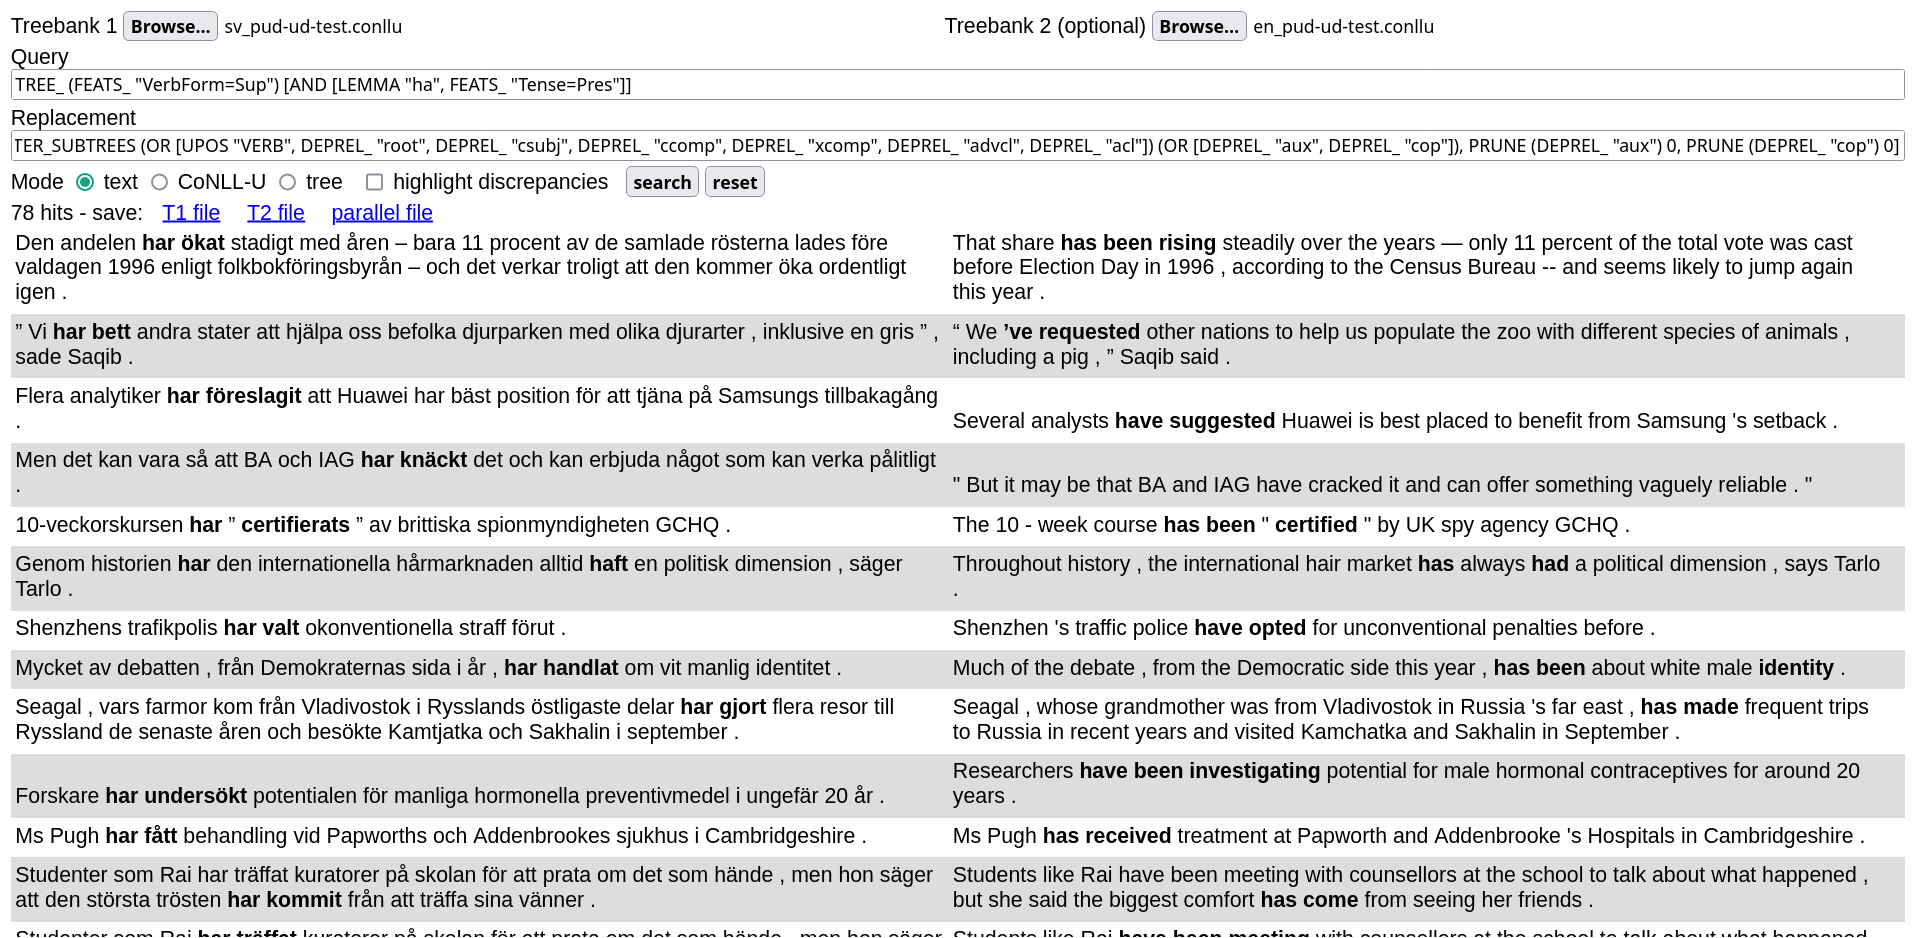
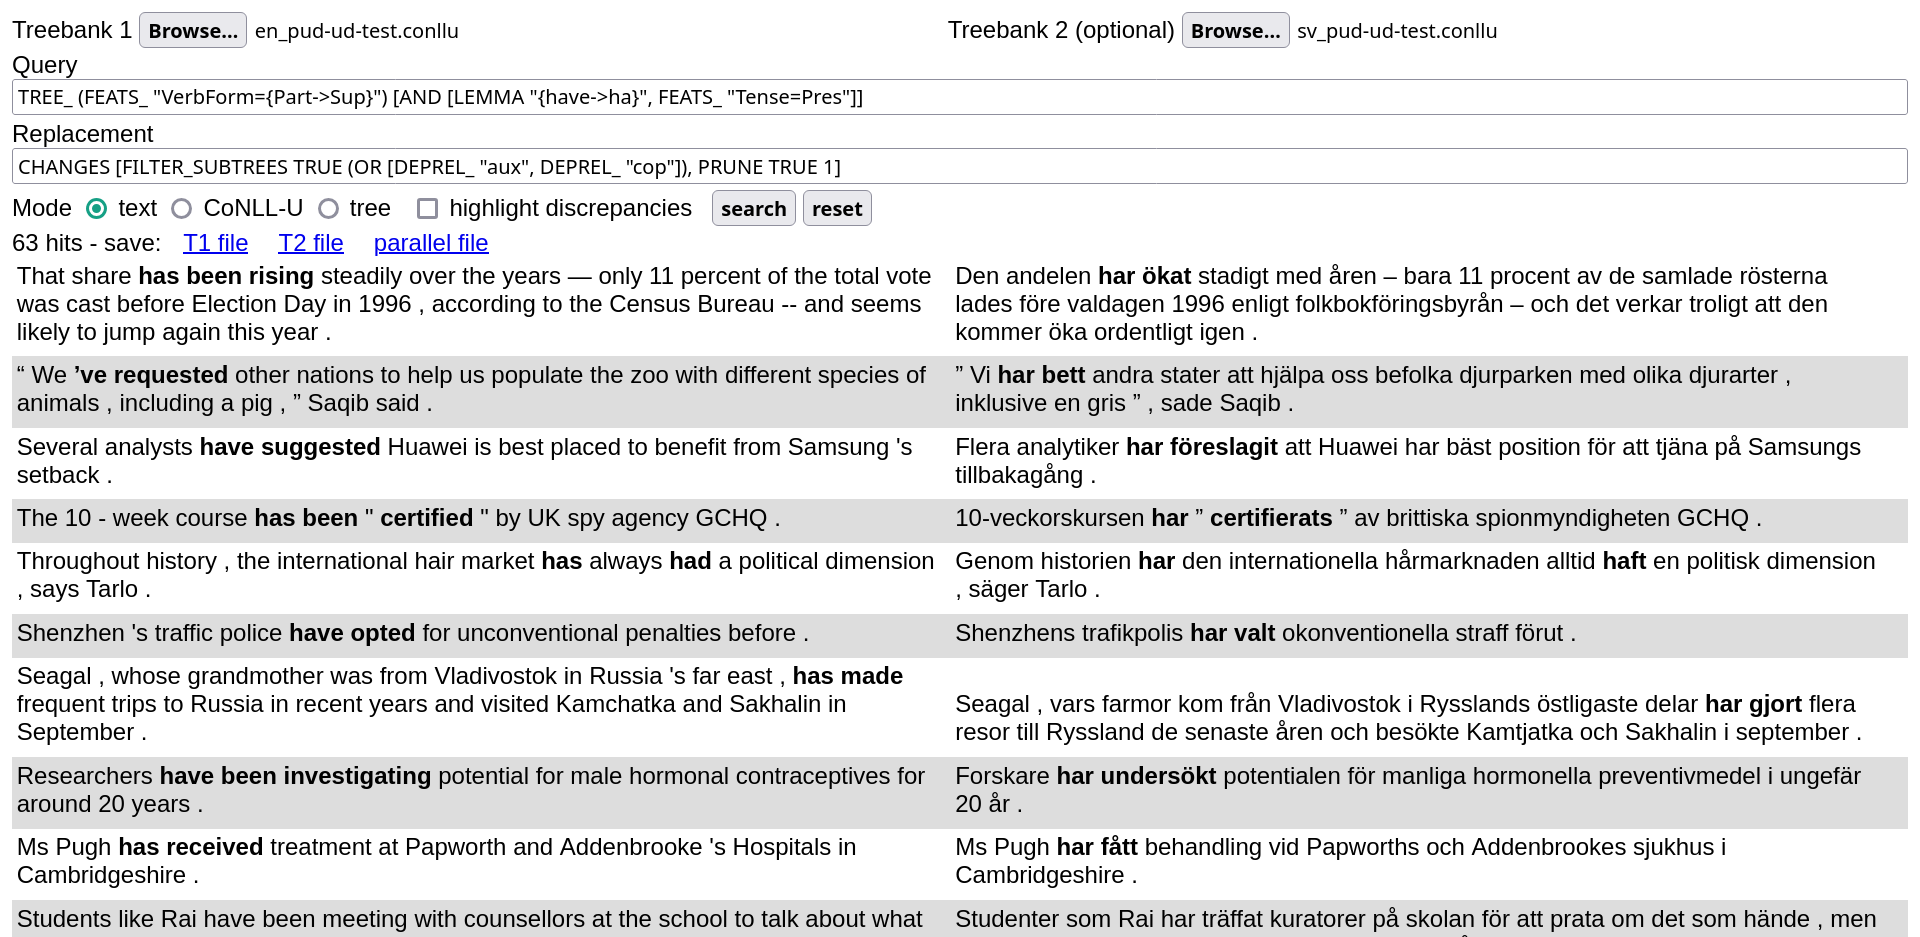
much better replacement pattern

diff --git a/README.md b/README.md
@@ -92,10 +92,10 @@ decreases the depth of trees rooted in a verb to 0, eliminating all dependents:
 The more complex pattern
 
 ```haskell
-CHANGES [FILTER_SUBTREES (OR [UPOS "VERB", DEPREL_ "root", DEPREL_ "csubj", DEPREL_ "ccomp", DEPREL_ "xcomp", DEPREL_ "advcl", DEPREL_ "acl"]) (OR [DEPREL_ "aux", DEPREL_ "cop"]), PRUNE (DEPREL_ "aux") 0, PRUNE (DEPREL_ "cop") 0]
+CHANGES [FILTER_SUBTREES TRUE (OR [DEPREL_ "aux", DEPREL_ "cop"]), PRUNE TRUE 1]
 ```
 
-uses dependency labels to isolate verb constructions of maximum depth 2, thus producing, in conjunction with the first query, the following output:
+uses dependency labels to isolate verb constructions of maximum depth 1, thus producing, in conjunction with the first query, the following output:
 
 ![replacement rule](img/replacement2.png)
 
